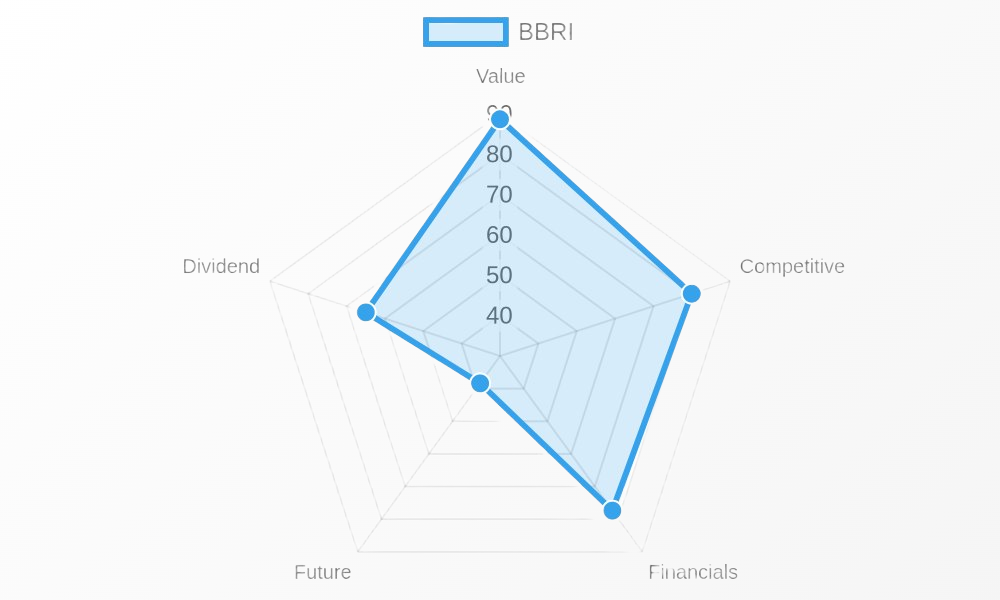
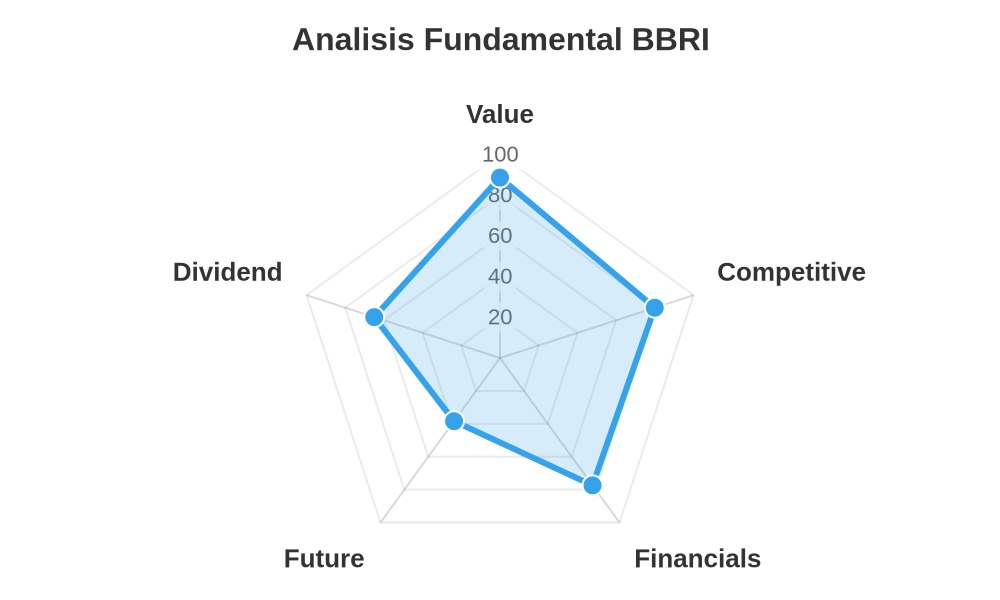
Fix radar chart scale dan update README

diff --git a/main.py b/main.py
@@ -557,7 +557,7 @@ def generate_radar_chart_url(ticker: str, metrics: dict) -> str:
         }
     }
 
-    url = "https://quickchart.io/chart?c=" + urllib.parse.quote(json.dumps(chart_config))
+    url = "https://quickchart.io/chart?v=4&c=" + urllib.parse.quote(json.dumps(chart_config))
     return url
 
 

diff --git a/README.md b/README.md
@@ -47,7 +47,7 @@ Tiap sumbu bernilai 0–100, semakin jauh titik dari pusat, semakin kuat saham d
 
 **Contoh pembacaan:** pada chart di atas, BBRI menunjukkan **Value** dan **Competitive** yang tinggi (titik jauh dari pusat) — artinya valuasi tergolong murah dan termasuk bank besar di sektornya. **Financials** dan **Dividend** berada di level menengah, sementara **Future** adalah titik yang paling dekat ke pusat — menandakan ini kelemahan utamanya (pertumbuhan laba sedang melambat). Bentuk pentagon yang "condong" ke satu sisi seperti ini membantu investor langsung melihat di mana kekuatan dan kelemahan utama emiten tersebut, tanpa perlu membaca semua angka satu per satu.
 
-> **Catatan:** skala pada chart dapat menyesuaikan (auto-zoom) tergantung sebaran skor, sehingga angka pada grid tidak selalu 0–100 penuh. Untuk membaca dengan cepat, fokus pada **jarak relatif tiap titik dari pusat** dibanding angka presisi pada grid.
+> > **Catatan:** skala pada chart selalu tetap di rentang 0–100, dengan grid tiap kelipatan 20. Untuk membaca dengan cepat, fokus pada **jarak relatif tiap titik dari pusat** dibanding angka presisi pada grid.
 
 ### 2. Watchlist & Pemantauan Otomatis
 - `/watch TICKER [HARGA]` — tambahkan saham ke watchlist (maks. 5 ticker per user)
